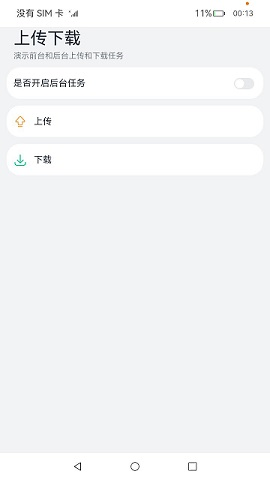
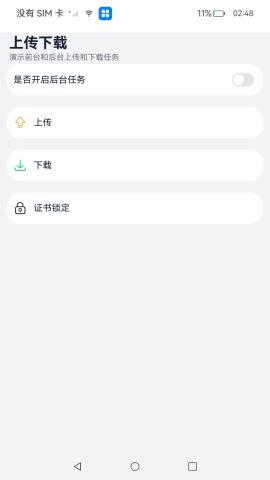
提交使用说明md

diff --git a/code/BasicFeature/Connectivity/UploadAndDownLoad/README_zh.md b/code/BasicFeature/Connectivity/UploadAndDownLoad/README_zh.md
@@ -5,15 +5,15 @@
 
 ### 效果预览
 
-|               主页               |             上传             |             片段上传             |                 下载                 |
-| :---------------------------------------: | :---------------------------------------: | :--------------------------------------: | :--------------------------------------: |
-|    ![home](screenshots/devices/zh/home.jpg)    | ![util](screenshots/devices/zh/upload.jpg) | ![util](screenshots/devices/zh/uploadchunk.jpg) | ![convertxml](screenshots/devices/zh/download.jpg) |
+|               主页               |             上传             |             片段上传             |                 下载                 |                 证书锁定                 |
+| :---------------------------------------: | :---------------------------------------: | :--------------------------------------: | :--------------------------------------: | ---------------------------------------- |
+|    ![home](screenshots/devices/zh/home.jpg)    | ![util](screenshots/devices/zh/upload.jpg) | ![util](screenshots/devices/zh/uploadchunk.jpg) | ![convertxml](screenshots/devices/zh/download.jpg) | ![](D:\01Code\sample\PR\applications_app_samples\code\BasicFeature\Connectivity\UploadAndDownLoad\screenshots\devices\zh\cert_lock.jpg) |
 
 使用说明
 
 1.本示例功能需要先配置服务器环境后使用，具体配置见[上传下载服务配置](./environment)。
 
-2.首页展示上传和下载两个入口组件，点击进入对应的页面，如果要使用后台下载任务，请开启后台任务开关。
+2.首页展示上传、下载和证书锁定三个入口组件，点击进入对应的页面，如果要使用后台下载任务，请开启后台任务开关。
 
 3.上传页面：
 
@@ -38,6 +38,17 @@
 前台下载时只支持单文件下载，后台下载时支持选择多个文件下载。
 
 后台下载**暂停**时，本示例功能将自动记录断点。此时HFS服务仍会进行一定时间的传输，但是传输的数据并不会被接受。点击**继续**后将会从上次暂停的断点继续下载。
+
+5.证书锁定页面：
+
+点击**下载**按钮会使用get方式访问百度，并在空白处显示返回的响应header内容。
+
+点击**上传**按钮会使用post方式访问百度，并在空白处显示返回的响应header内容。
+
+以上功能需要在src/main/resources/base/profile/network_config.json中配置domains和digest，只有你配置的证书信息通过验证，上传和下载才可以正常响应。如果你要访问的服务器根证书不在系统中，你需要把它的根证书放到src/main/resources/resfile目录下。
+
+
+
 ### 工程目录
 
 ```
@@ -53,6 +64,7 @@ UploadAndDownload
 │   │   │   ├── Download.ets                    //下载页面                     
 │   │   │   ├── DownloadFiles.ets               //查看下载文件页面
 │   │   │   ├── Upload.ets                      //上传页面 
+│   │   │   ├── CertLock.ets                    //证书锁定页面 
 │   └── module.json5
 │
 ├── features/uploadanddownload/src/main         //上传和下载
@@ -68,15 +80,29 @@ UploadAndDownload
 
 ### 具体实现
 
-* 该示例分为两个模块：
+* 该示例分为三个模块：
   * 上传模块
-    * 使用[@ohos.request](https://gitee.com/openharmony/docs/blob/master/zh-cn/application-dev/reference/apis-basic-services-kit/js-apis-request.md)中API 10接口agent.create创建上传任务，调用@ohos.request中的Task相关接口实现上传任务的创建、取消、进度加载，失败的任务会调用查询接口获取失败原因并打印在日志中，支持多个文件上传及片段上传。
+    * 使用[@ohos.request](https://gitee.com/openharmony/docs/blob/master/zh-cn/application-dev/reference/apis-basic-services-kit/js-apis-request.md)中API 12接口agent.create创建上传任务，调用@ohos.request中的Task相关接口实现上传任务的创建、取消、进度加载，失败的任务会调用查询接口获取失败原因并打印在日志中，支持多个文件上传及片段上传。
     * 源码链接：[RequestUpload.ets](./features/uploadanddownload/src/main/ets/upload/RequestUpload.ets)，[AddPictures.ets](./entry/src/main/ets/components/AddPictures.ets)，[Upload.ets](./entry/src/main/ets/pages/Upload.ets)
     * 参考接口：[@ohos.request](https://gitee.com/openharmony/docs/blob/master/zh-cn/application-dev/reference/apis-basic-services-kit/js-apis-request.md)，[@ohos.file.picker](https://gitee.com/openharmony/docs/blob/master/zh-cn/application-dev/reference/apis-core-file-kit/js-apis-file-picker.md)
+    
   * 下载模块
-    * 使用[@ohos.request](https://gitee.com/openharmony/docs/blob/master/zh-cn/application-dev/reference/apis-basic-services-kit/js-apis-request.md)中API 10接口agent.create创建上传任务，调用@ohos.request中的Task相关接口实现上传任务的创建、取消、进度加载，失败的任务会调用查询接口获取失败原因并打印在日志中，前台下载任务只支持单个文件下载，后台下载任务支持多文件下载。使用[@ohos.file.fs](https://gitee.com/openharmony/docs/blob/master/zh-cn/application-dev/reference/apis-core-file-kit/js-apis-file-fs.md)完成指定路径的创建和查询已下载的文件。
+    
+    * 使用[@ohos.request](https://gitee.com/openharmony/docs/blob/master/zh-cn/application-dev/reference/apis-basic-services-kit/js-apis-request.md)中API 12接口agent.create创建上传任务，调用@ohos.request中的Task相关接口实现上传任务的创建、取消、进度加载，失败的任务会调用查询接口获取失败原因并打印在日志中，前台下载任务只支持单个文件下载，后台下载任务支持多文件下载。使用[@ohos.file.fs](https://gitee.com/openharmony/docs/blob/master/zh-cn/application-dev/reference/apis-core-file-kit/js-apis-file-fs.md)完成指定路径的创建和查询已下载的文件。
     * 源码链接：[RequestDownload.ets](./features/uploadanddownload/src/main/ets/download/RequestDownload.ets)，[Download.ets](./entry/src/main/ets/pages/Download.ets)，[FileUtils.ets](./features/uploadanddownload/src/main/ets/utils/FileUtils.ets)，[FileBrowse.ets](./features/uploadanddownload/src/main/ets/components/FileBrowse.ets)
     * 参考接口：[@ohos.request](https://gitee.com/openharmony/docs/blob/master/zh-cn/application-dev/reference/apis-basic-services-kit/js-apis-request.md)，[@ohos.file.fs](https://gitee.com/openharmony/docs/blob/master/zh-cn/application-dev/reference/apis-core-file-kit/js-apis-file-fs.md)
+    
+  * 证书锁定模块
+    
+    * 使用[@ohos.request](https://gitee.com/openharmony/docs/blob/master/zh-cn/application-dev/reference/apis-basic-services-kit/js-apis-request.md)中API 12接口agent.create创建上传任务，调用@ohos.request中的Task相关接口实现通过get或者post方式访问指定的网页，点击按钮后会在空白处显示返回的响应header内容。你需要提前在src/main/resources/base/profile/network_config.json中配置domains和digest，只有你配置的证书信息通过验证，上传和下载才可以正常响应。如果你要访问的服务器根证书不在系统中，你需要把它的根证书放在src/main/resources/resfile目录下。
+    
+    * 源码链接，[CertLock.ets](./entry/src/main/ets/pages/CertLock.ets)
+    
+    * 参考接口：[@ohos.request](https://gitee.com/openharmony/docs/blob/master/zh-cn/application-dev/reference/apis-basic-services-kit/js-apis-request.md)
+    
+      
+
+  
 
 ### 相关权限
 
@@ -92,7 +118,7 @@ UploadAndDownload
 
 1.本示例仅支持标准系统上运行，支持设备：RK3568。
 
-2.本示例为Stage模型，支持API10版本SDK，SDK版本号(API Version 10 Release),镜像版本号(4.0 Release)
+2.本示例为Stage模型，支持API12版本SDK，SDK版本号(API Version 12),镜像版本号(5.0)
 
 3.本示例需要使用DevEco Studio 版本号(4.0 Release)及以上版本才可编译运行。
 
